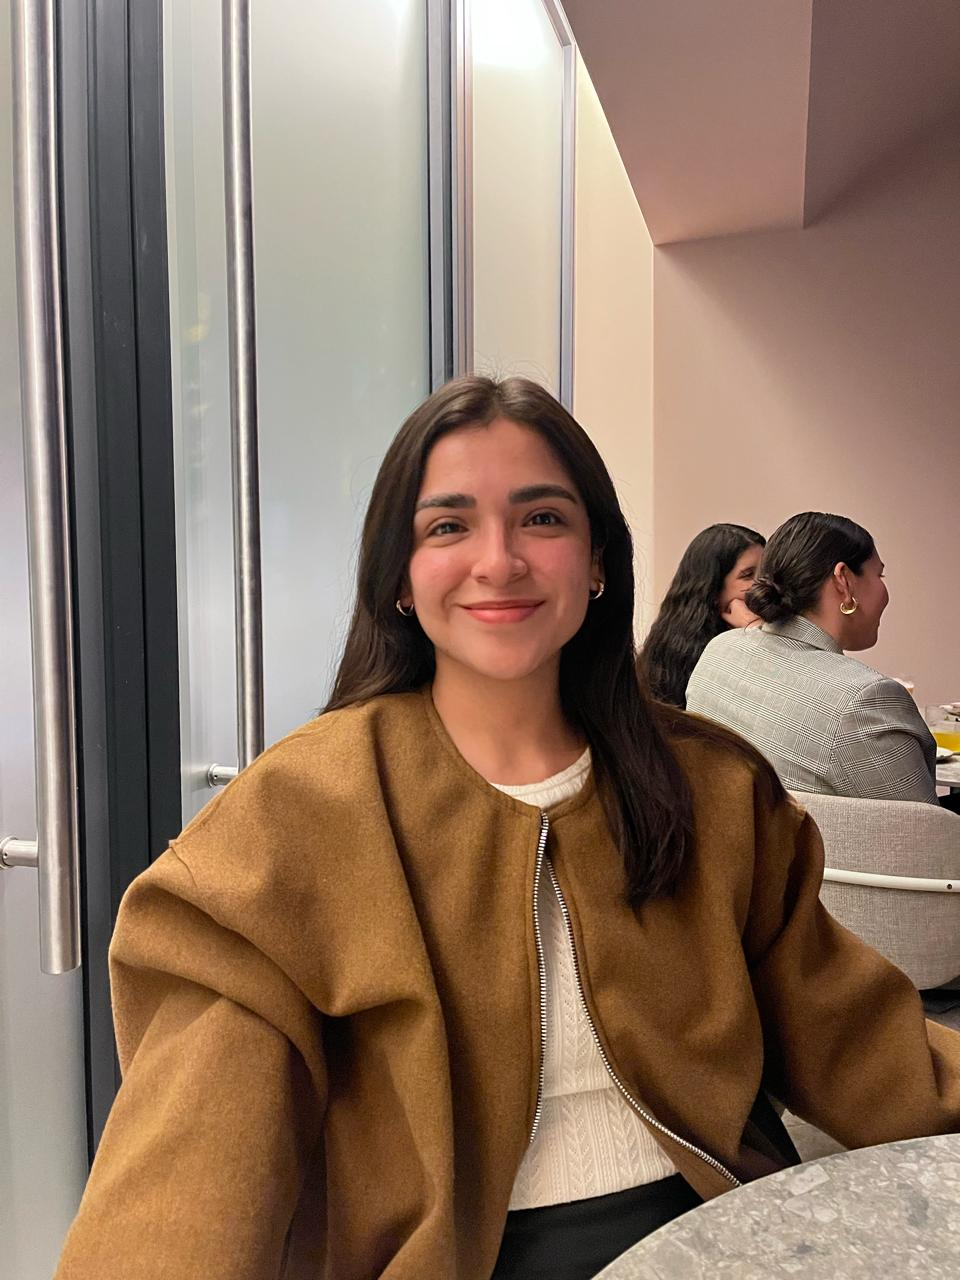
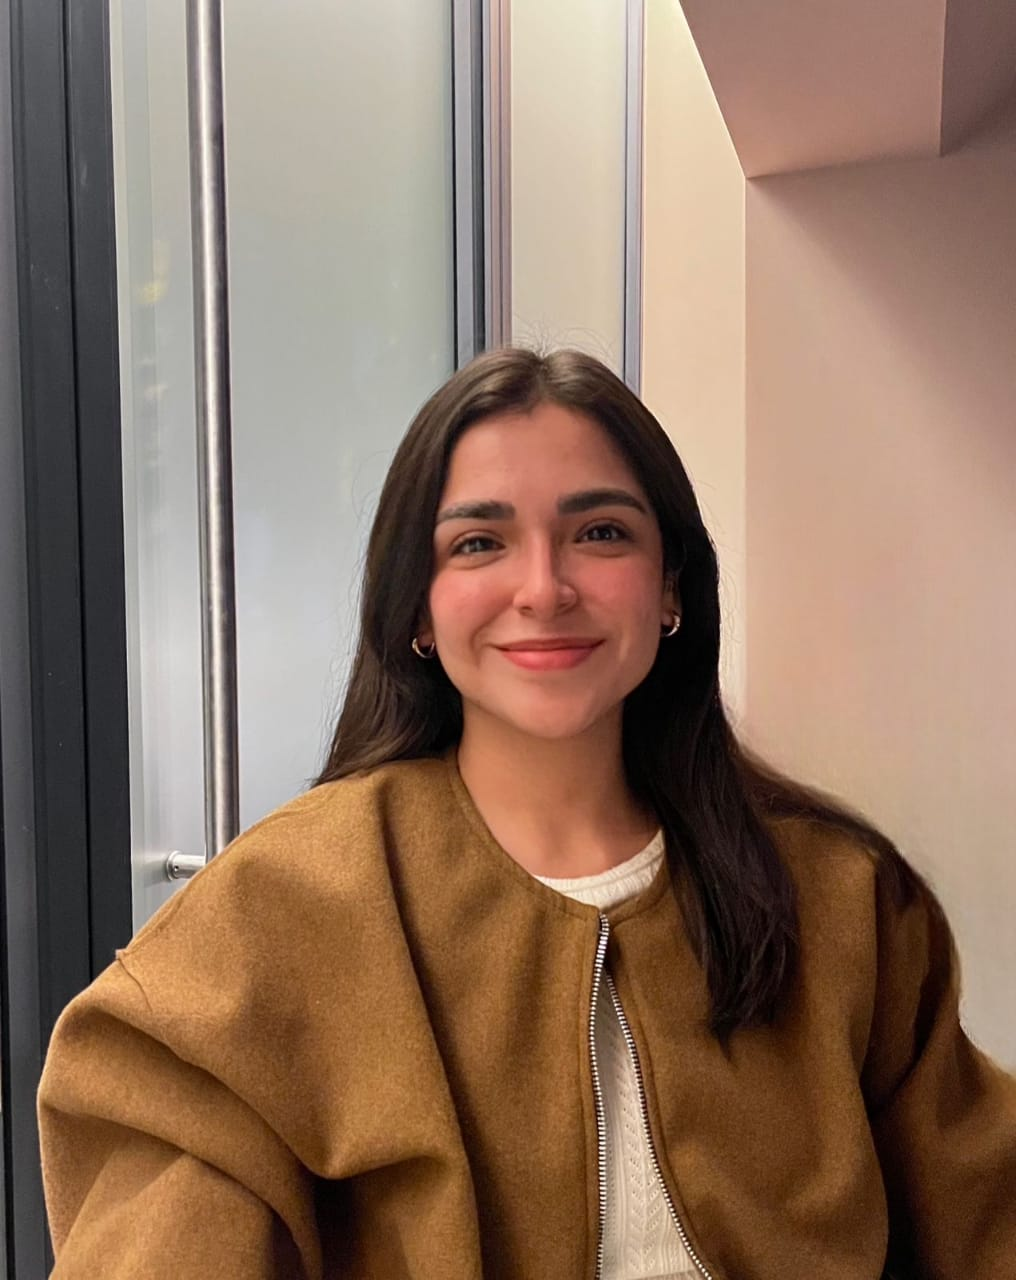
feat: update About page content to enhance clarity and strategic focus; replace profile image

diff --git a/app/(main)/about/page.tsx b/app/(main)/about/page.tsx
@@ -131,9 +131,7 @@ export default function AboutPage() {
                 </div>
 
                 <p className="text-base md:text-lg lg:text-xl text-muted-foreground leading-relaxed max-w-2xl text-pretty">
-                  Especialista en reclutamiento full-cycle para roles de IT, ingeniería y gestión. Experta en
-                  identificar talento de alto nivel, gestionar proyectos de alto volumen y colaborar con gerentes de
-                  contratación para alinear estrategias de talento con objetivos empresariales.
+                 Especialista en reclutamiento IT full-cycle con enfoque estratégico y orientado a resultados. Experiencia optimizando procesos de selección y reduciendo tiempos de contratación sin perder calidad. Genero relaciones sólidas con hiring managers y stakeholders para asegurar contrataciones alineadas a la visión del negocio.
                 </p>
 
                 {/* LinkedIn CTA */}
